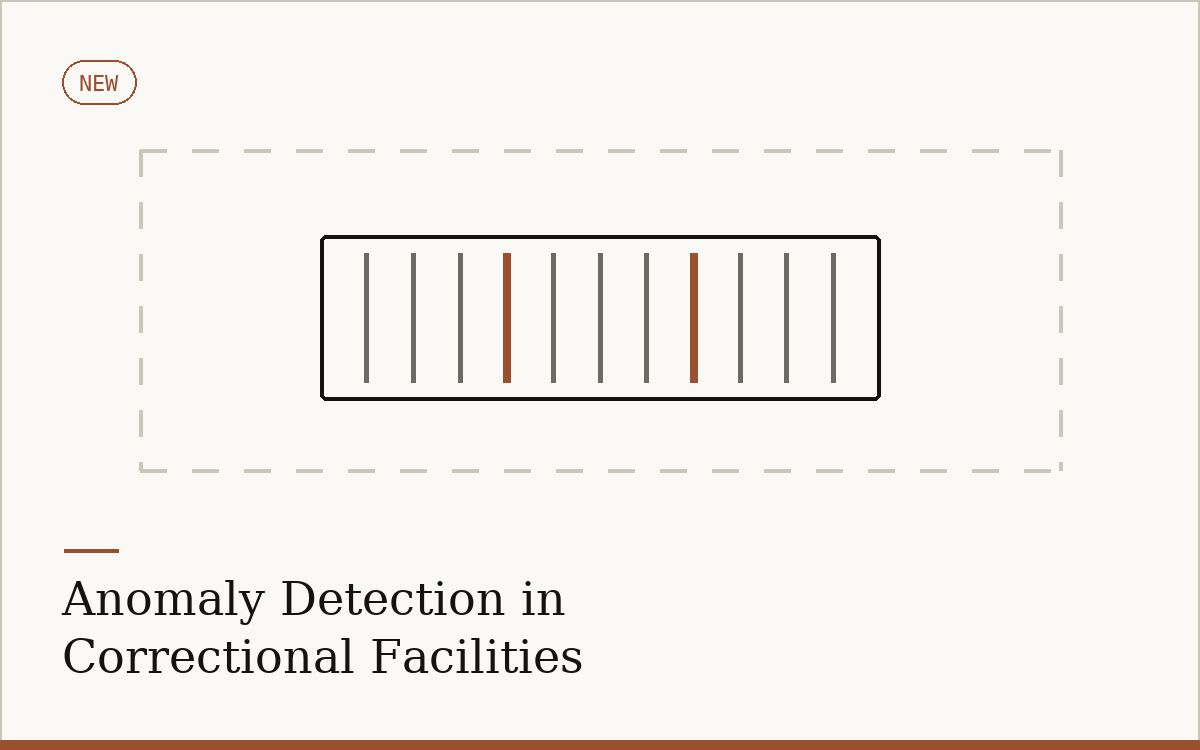
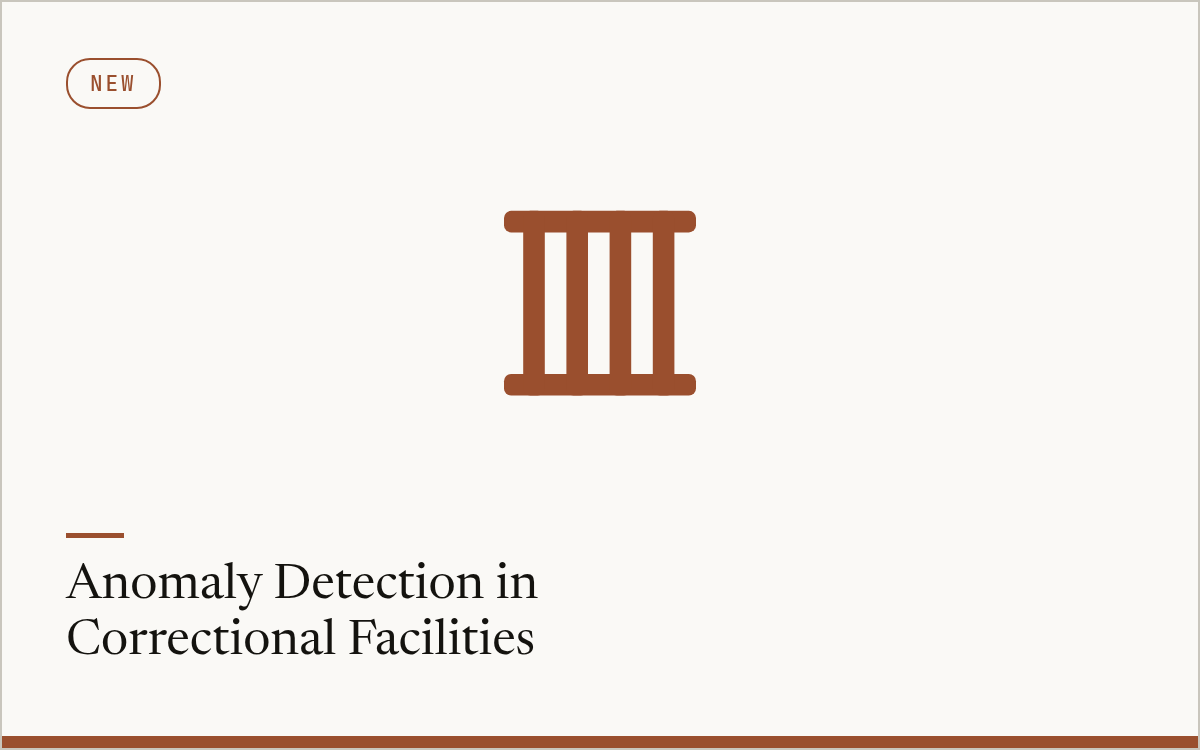
publications: add paper links + fix authors; projects: intuitive themed thumbnails
- papers.bib: add source links to published papers (Sensors -> direct OA PDF;
  TIP/ESWA -> IEEE/ScienceDirect pages; JKICS -> DOI). Correct authors from
  the official record: ESWA & TIP 'Kim, D.' = DongBum Kim, ESWA 'Lee, S.' =
  Sangyoun Lee, JKICS = Nammoon Kim / Ji-Hye Park. Mirror name fixes in cv.yml.
- projects: replace all 7 thumbnails with uniform 1200x750 themed icon covers
  (eye, CCTV, shield, jail-bars, crosshairs, helmet, bus) matching each
  project's content.

diff --git a/_projects/2_indoor_tracking.md b/_projects/2_indoor_tracking.md
@@ -2,7 +2,7 @@
 layout: page
 title: Indoor Tracking with Sensor Networks
 description: Passive target tracking in 3D indoor environments using DNNs and wireless sensors — M.Eng. thesis
-img: assets/img/2.jpg
+img: assets/img/proj_tracking.png
 importance: 5
 category: work
 related_publications: true

diff --git a/_projects/1_vad.md b/_projects/1_vad.md
@@ -2,7 +2,7 @@
 layout: page
 title: Video Anomaly Detection
 description: VLM-guided unsupervised VAD with contextual dynamics — KIST AI·Robotics
-img: assets/img/1.jpg
+img: assets/img/proj_vad.png
 importance: 1
 category: work
 related_publications: true

diff --git a/_projects/3_smart_helmet.md b/_projects/3_smart_helmet.md
@@ -2,7 +2,7 @@
 layout: page
 title: SLAM-Based Smart Helmet for Firefighters
 description: Reliable real-world sensing system for emergency responders
-img: assets/img/3.jpg
+img: assets/img/proj_helmet.png
 importance: 6
 category: work
 ---

diff --git a/_projects/4_autonomous_bus.md b/_projects/4_autonomous_bus.md
@@ -2,7 +2,7 @@
 layout: page
 title: Autonomous Bus Development
 description: Project coordination at The Korea Transport Institute (KOTI)
-img: assets/img/4.jpg
+img: assets/img/proj_bus.png
 importance: 7
 category: work
 ---
